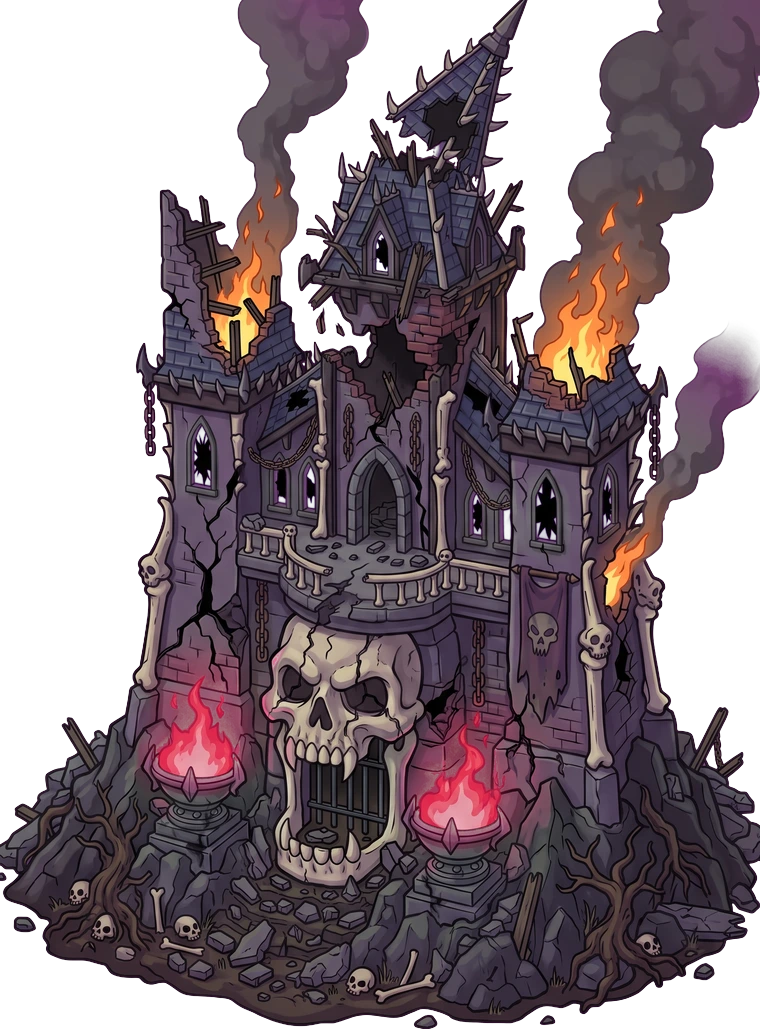
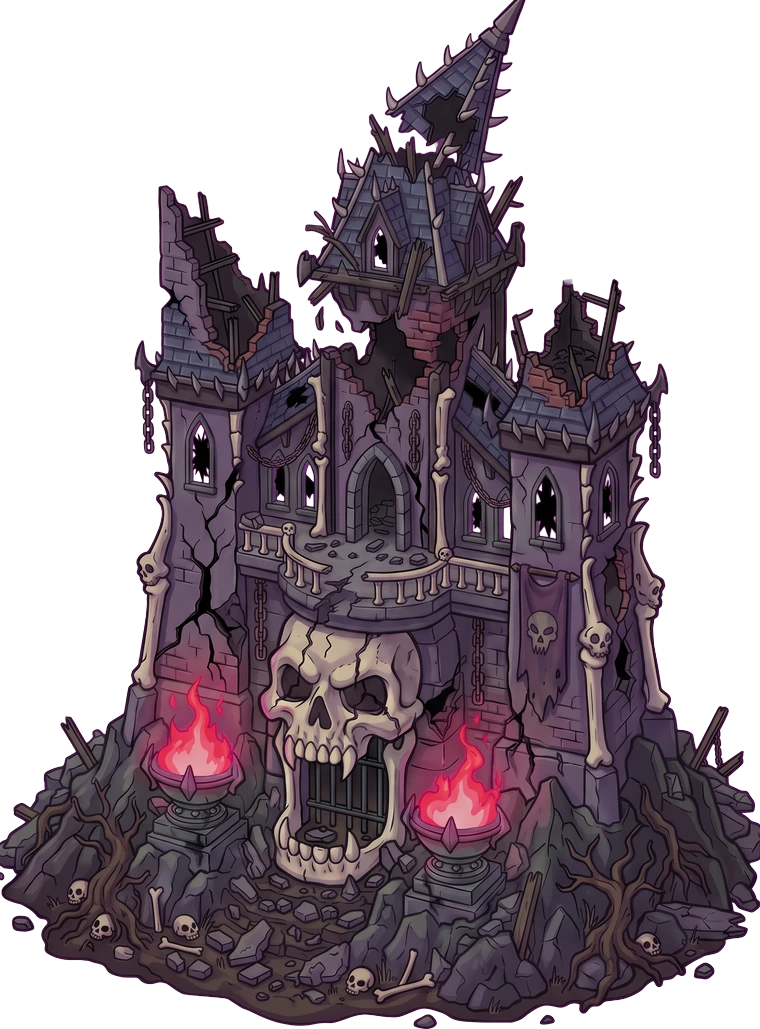
Şapel dumanı ve çatı yangını görselden silindi, kodla canlı (yükselen kıvrılan duman, titreyen alev); evre başına noktalar KEEP_FX.dmg

diff --git a/sinir-kalesi/js/game.js b/sinir-kalesi/js/game.js
@@ -1553,7 +1553,7 @@ const HERO_AGGRO = { r: 30, max: 3, dmg: 1.3 };
 let HERO_SKILL = false; // yetenek hasarı işlenirken true
 let SKILL_K = 1; // işlenen yeteneğin ağaç kademesinden hasar çarpanı (mermi / alanlar kendi kopyasını taşır)
 function heroStats(h) {
-  const d = h.def, lk = 1 + 0.07 * (h.lvl - 1), k = lk * HERO_POWER, L = h.learned, ir = L.iron || 0; // seviye 20'de can ve hasar ×2,33
+  const d = h.def, lk = 1 + 0.035 * (h.lvl - 1), k = lk * HERO_POWER, L = h.learned, ir = L.iron || 0; // seviye 20'de can ve hasar ×1,67 (11 Eki denge: ×2,33 fazla güçlüydü)
   const ratio = h.maxHp ? h.hp / h.maxHp : 1;
   h.maxHp = Math.round(d.hp * lk * HERO_HP); h.hp = Math.min(h.maxHp, h.maxHp * ratio);
   h.dmg = [Math.max(1, Math.round(d.dmg[0] * k)), Math.max(1, Math.round(d.dmg[1] * k))];
@@ -5394,7 +5394,7 @@ function marchSoldier(s, dt) {
 
 // Kahraman gücü: seviyeyle hasar %15 artar, yıldız gelişmesiyle +%20
 function castUlt(h, x, y) {
-  const U = HERO_ULT[h.id], k = (1 + HERO_TREE.ultK * ((h.ult || 1) - 1)) * (1 + 0.03 * (h.lvl - 1)); // güç kademesi (ağaç) ve seviye
+  const U = HERO_ULT[h.id], k = (1 + HERO_TREE.ultK * ((h.ult || 1) - 1)) * (1 + 0.015 * (h.lvl - 1)); // güç kademesi (ağaç) ve seviye
   const dmg = () => roll(U.dmg) * k;
   // isabet noktası: yarısı alandaki düşmanların üstüne (biraz ileriye), kalanı alana rastgele düşer
   const foes = enemiesNear(x, y, U.r * 1.1, true);
@@ -10192,7 +10192,7 @@ function drawCastle() {
     if (c.flash > 0) { ctx.globalAlpha = c.flash / 0.25 * 0.45; drawSprite(ctx, whiteOf('castle_fx_' + stage, im), 0, 0, cp.w); }
     ctx.restore();
     drawCastleArchers();
-    if (isKeep(im)) drawKeepLights(cp, cp.w * im.height / im.width, sh, im === spr('castle_keep_3'));
+    if (isKeep(im)) drawKeepLights(cp, cp.w * im.height / im.width, sh, [2, 3, 4].find(n => im === spr('castle_keep_' + n)));
     if (NECRO) {
       drawMortimer();
       const h = cp.w * im.height / im.width, R = mortStage(im).rail, x0 = cp.x + sh - cp.w / 2, y0 = cp.y - h;
@@ -10255,7 +10255,26 @@ const KEEP_FX = {
   fire: [[0.255, 0.715], [0.6, 0.765]], roof: [[0.276, 0.275], [0.8, 0.345]], eyes: [[0.405, 0.665], [0.505, 0.665]],
   win: [[0.505, 0.355, 2.2], [0.5, 0.245, 0.8], [0.63, 0.245, 0.8], [0.265, 0.455, 1], [0.36, 0.485, 0.8], [0.4, 0.485, 0.8],
     [0.72, 0.495, 1], [0.8, 0.5, 0.8], [0.625, 0.515, 0.8]],
+  // 11 Eki: hasar evrelerinin dumanı ve çatı yangını görselden silindi, kodla canlı (Caner: duman hareketsizdi).
+  // smoke: [x, y, kalınlık] dumanın çıktığı yer; burn: [x, y, boy] çatıdaki yangın. Evre başına (castle_keep_N).
+  dmg: {
+    2: { smoke: [[0.62, 0.3, 0.8]], burn: [] },
+    3: { smoke: [[0.27, 0.3, 1], [0.79, 0.38, 1.1]], burn: [[0.27, 0.31, 0.9], [0.79, 0.39, 1]] },
+    4: { smoke: [[0.27, 0.27, 1.2], [0.81, 0.34, 1.3], [0.58, 0.22, 0.9], [0.86, 0.55, 0.7]], burn: [[0.27, 0.29, 1.1], [0.81, 0.36, 1.2], [0.86, 0.56, 0.7]] },
+  },
 };
+// süzülen duman: üst üste binen yumuşak gri lekeler aşağıdan yukarı yükselir, rüzgârla sağa kıvrılır, büyüyüp söner (görselde değil, her karede)
+function keepSmoke(x, y, s, k, seed) {
+  const N = 10, H = 150 * s * k;
+  for (let i = 0; i < N; i++) {
+    const u = (time * 0.16 + i / N + seed * 0.37) % 1, r = (9 + 26 * u) * s * k;
+    const px = x + Math.sin(time * 0.9 + i * 1.7 + seed) * 7 * s * u + 40 * s * k * u * u, py = y - H * u;
+    const a = Math.min(1, Math.sin(Math.PI * Math.min(1, u * 1.6)) * (1 - u * 0.7) * 1.25);
+    const g = ctx.createRadialGradient(px, py, 0, px, py, r);
+    g.addColorStop(0, `rgba(70,62,78,${a * 0.9})`); g.addColorStop(0.55, `rgba(52,46,60,${a * 0.6})`); g.addColorStop(1, 'rgba(40,36,48,0)');
+    ctx.fillStyle = g; ctx.fillRect(px - r, py - r, 2 * r, 2 * r);
+  }
+}
 function drawKeepLights(cp, h, sh, burning) {
   const s = cp.w / 1000, P = (f) => [cp.x - cp.w / 2 + f[0] * cp.w + sh, cp.y - h + f[1] * h];
   ctx.save(); ctx.globalCompositeOperation = 'lighter';
@@ -10270,13 +10289,15 @@ function drawKeepLights(cp, h, sh, burning) {
     for (let j = 0; j < 3; j++) avluFlame(x + (j - 1) * 9 * s, y + 10 * s, (40 + 14 * Math.sin(time * 7 + j * 2 + i)) * s * (j === 1 ? 1.2 : 0.8), 9 * s, k, j * 2 + i, '255,225,235', '225,40,100');
     if (Math.random() < 0.05 * speed) emit(G.parts, { kind: 'glow', add: true, x: x + rand(-4, 4), y: y - 24 * s, vx: rand(-6, 6), vy: rand(-30, -16), col: i % 2 ? '200,80,255' : '255,70,110', s0: rand(1, 1.8), s1: 0.2, life: rand(0.6, 1.1), a: 0.9 });
   }
-  if (burning) for (const [i, f] of KEEP_FX.roof.entries()) { // ağır hasar: çatılarda yangın
-    const [x, y] = P(f), k = 0.5 + 0.5 * Math.sin(time * 11 + i * 3) * Math.sin(time * 6.1 + i);
-    glow(ctx, x, y, (50 + 10 * k) * s, '255,140,50', 0.3 + 0.12 * k);
-    for (let j = 0; j < 2; j++) avluFlame(x + (j - 0.5) * 10 * s, y + 8 * s, (30 + 10 * Math.sin(time * 8 + j * 2 + i)) * s, 8 * s, k, j * 3 + i, '255,240,180', '255,120,30');
+  const D = KEEP_FX.dmg[burning] || null; // burning: evre numarası (2..4) ya da yok
+  if (D) for (const [i, f] of D.burn.entries()) { // çatılarda yangın: titreyen alev dilleri ve kıvılcım
+    const [x, y] = P(f), k = 0.5 + 0.5 * Math.sin(time * 11 + i * 3) * Math.sin(time * 6.1 + i), z = f[2];
+    glow(ctx, x, y, (50 + 10 * k) * s * z, '255,140,50', 0.3 + 0.12 * k);
+    for (let j = 0; j < 3; j++) avluFlame(x + (j - 1) * 11 * s * z, y + 8 * s, (34 + 14 * Math.sin(time * 8 + j * 2 + i)) * s * z * (j === 1 ? 1.25 : 0.85), 9 * s * z, k, j * 3 + i, '255,240,180', '255,120,30');
     if (Math.random() < 0.06 * speed) emit(G.parts, { kind: 'glow', add: true, x: x + rand(-5, 5), y: y - 14 * s, vx: rand(-8, 8), vy: rand(-36, -20), col: '255,160,60', s0: rand(1, 1.8), s1: 0.2, life: rand(0.5, 1), a: 0.9 });
   }
   ctx.restore();
+  if (D) { ctx.save(); for (const [i, f] of D.smoke.entries()) { const [x, y] = P(f); keepSmoke(x, y, cp.w / 200, f[2], i * 2.3); } ctx.restore(); } // duman ışıkların üstünde, normal karışım
 }
 function drawAvluLights(cp, h, sh, gateOk) {
   const s = cp.w / 1000, P = (f) => [cp.x - cp.w / 2 + f[0] * cp.w + sh, cp.y - h + f[1] * h];
@@ -10360,7 +10381,7 @@ function castleAmbient(dt) {
   const c = G.castle, ratio = G.lives / G.maxLives;
   c.shake = Math.max(0, c.shake - dt); c.flash = Math.max(0, c.flash - dt);
   G.hurt = Math.max(0, G.hurt - dt);
-  if (ratio > 0.6 || G.lives <= 0) return;
+  if (ratio > 0.6 || G.lives <= 0 || (NECRO && spr('castle_keep_1'))) return; // heybetli kalede duman drawKeepLights'ta
   c.smokeT -= dt;
   if (c.smokeT > 0) return;
   c.smokeT = ratio > 0.3 ? 0.35 : 0.15;

diff --git a/sinir-kalesi/index.html b/sinir-kalesi/index.html
@@ -11,7 +11,7 @@
 <canvas id="game" aria-label="Sınır Kalesi oyun alanı"></canvas>
 <script>
   // Sürüm damgası: her yayında artırılır; tarayıcı eski önbellek kopyasını kullanmaz (js ve görseller).
-  window.SURUM = '381';
+  window.SURUM = '384';
   // dil: kayıtlı seçim (yoksa Türkçe); tr/en dışındakiler için çeviri sözlüğü dil.js'ten önce yüklenir
   window.__dilYukle = (function () {
     var l = null; try { l = localStorage.getItem('sinirKalesi.lang'); } catch (e) {}

diff --git a/sinir-kalesi/yayin.html b/sinir-kalesi/yayin.html
@@ -11,7 +11,7 @@
 <canvas id="game" aria-label="Sınır Kalesi oyun alanı"></canvas>
 <script>
   // Sürüm damgası: her yayında artırılır; tarayıcı eski önbellek kopyasını kullanmaz (js ve görseller).
-  window.SURUM = '381';
+  window.SURUM = '384';
   // dil: kayıtlı seçim (yoksa Türkçe); tr/en dışındakiler için çeviri sözlüğü dil.js'ten önce yüklenir
   window.__dilYukle = (function () {
     var l = null; try { l = localStorage.getItem('sinirKalesi.lang'); } catch (e) {}
